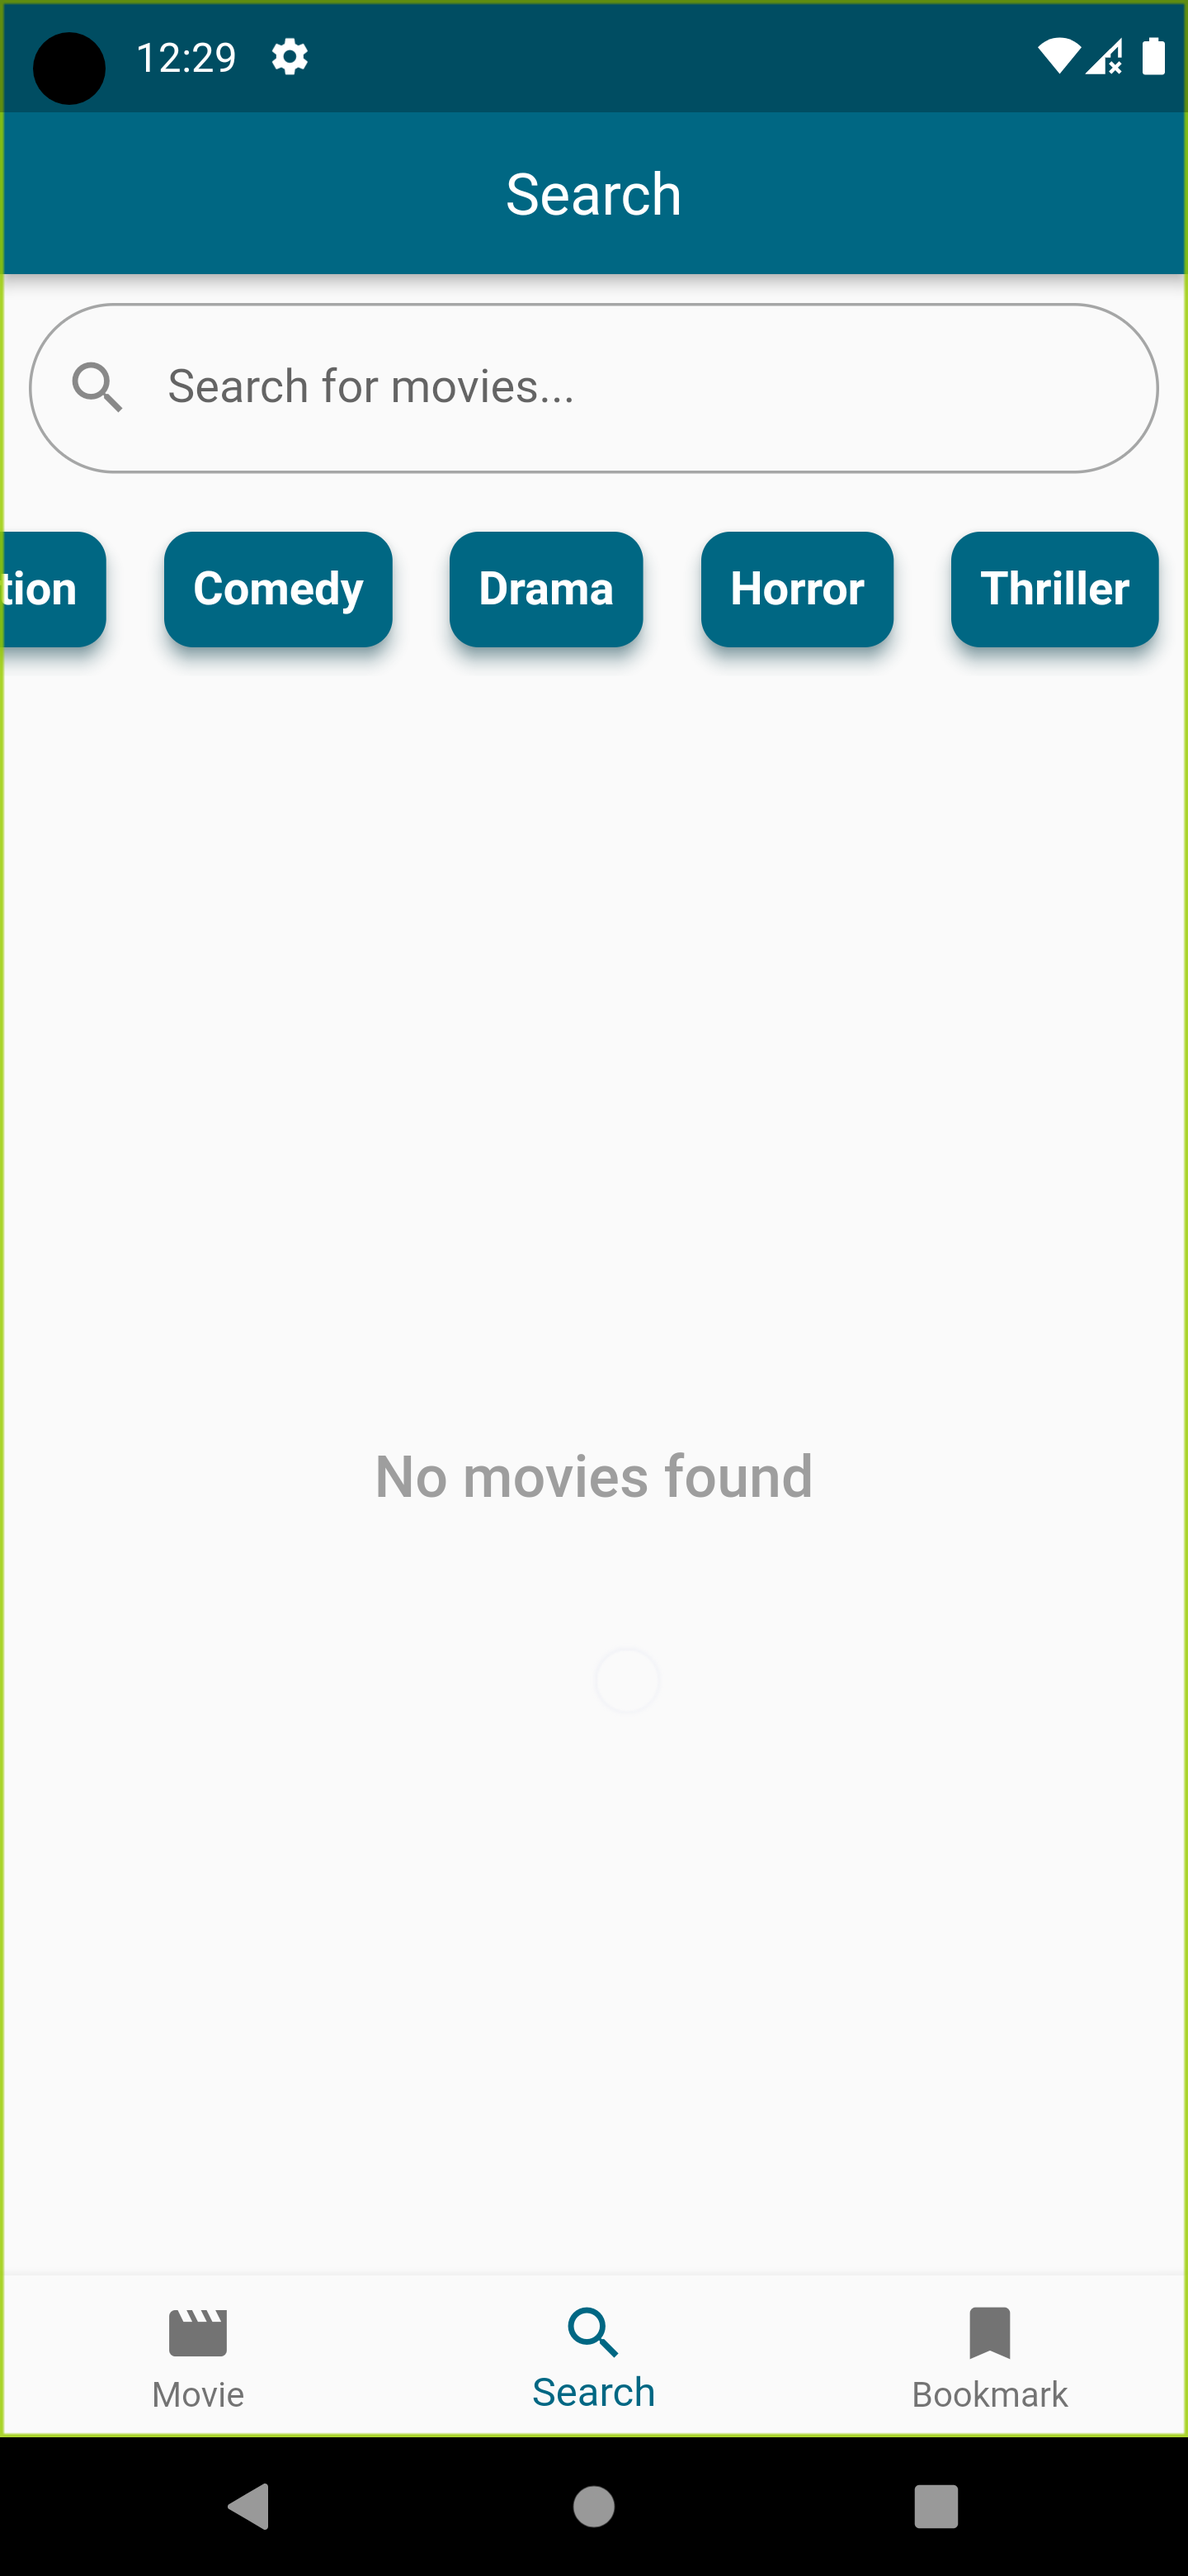
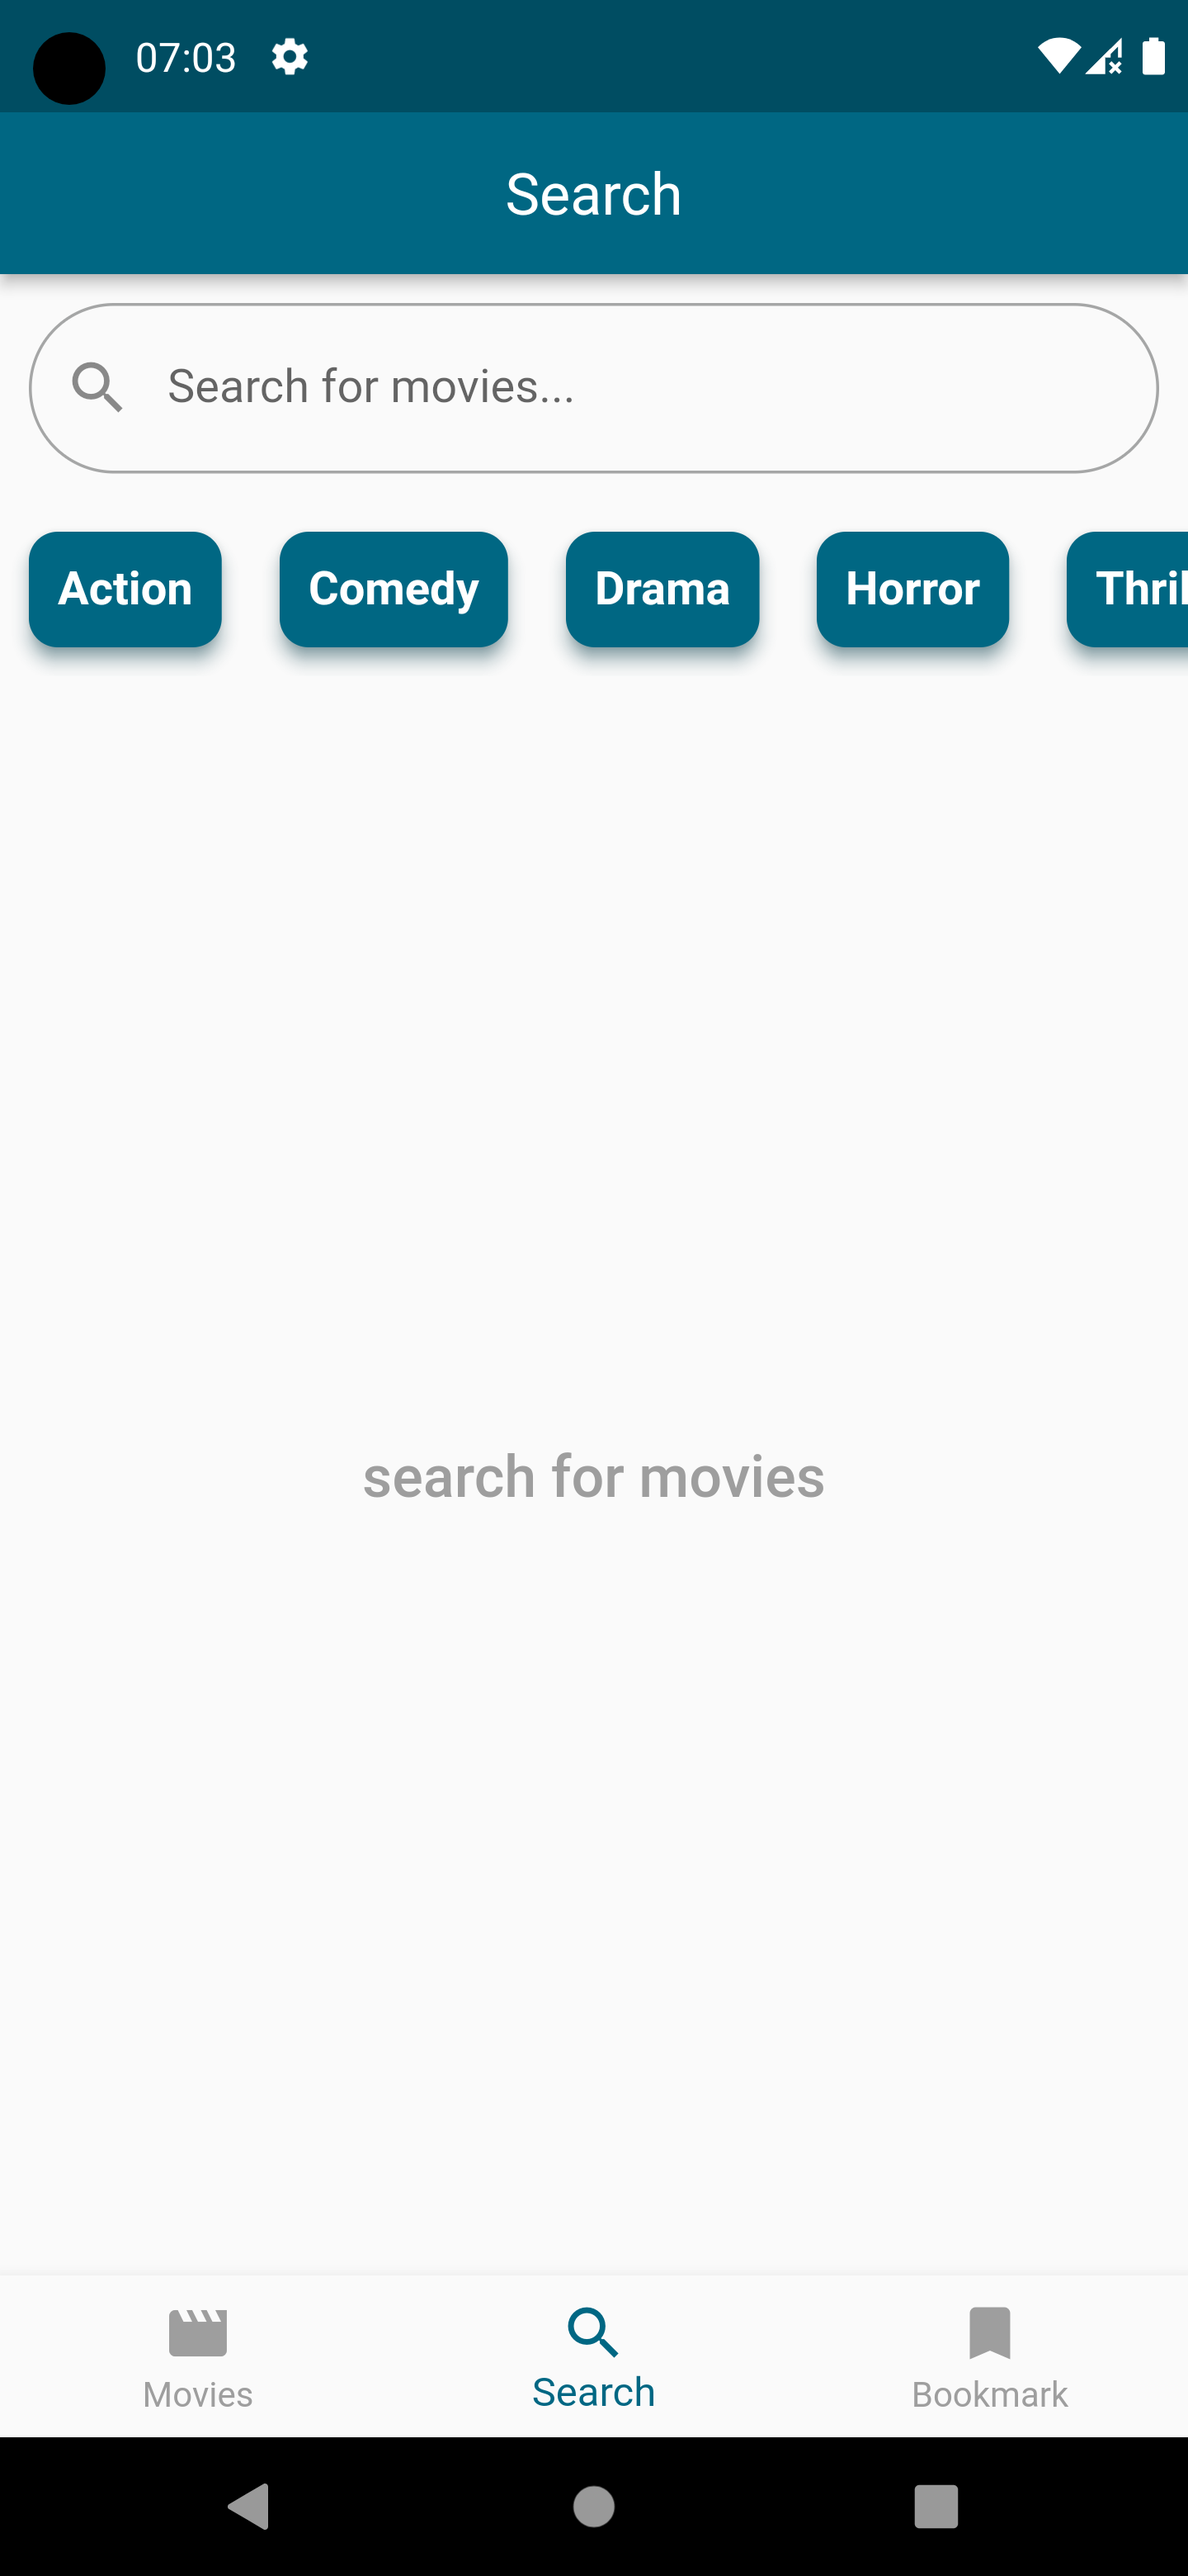
refactor code

diff --git a/lib/views/screens/search_screen.dart b/lib/views/screens/search_screen.dart
@@ -89,23 +89,34 @@ class SearchScreen extends StatelessWidget {
                 ),
               ),
               Expanded(
-                child: controller.isLoading.value
-                    ? const Center(child: CircularProgressIndicator())
-                    : controller.listMovies.isEmpty
-                        ? const Center(
-                            child: CustomText(
-                              text: 'No movies found',
-                              fontWeight: FontWeight.w500,
-                              color: Colors.grey,
-                            ),
-                          )
-                        : ListView.builder(
-                            itemCount: controller.listMovies.length,
-                            itemBuilder: (context, index) {
-                              MovieModel movie = controller.listMovies[index];
-                              return CustomHorizontalMovieCard(movie: movie);
-                            },
-                          ),
+                child: controller.searchText.value == ''
+                    ? const Center(
+                        child: CustomText(
+                          text: 'search for movies',
+                          fontWeight: FontWeight.w500,
+                          color: Colors.grey,
+                        ),
+                      )
+                    : controller.isLoading.value
+                        ? const Center(child: CircularProgressIndicator())
+                        : controller.listMovies.isEmpty
+                            ? const Center(
+                                child: CustomText(
+                                  text: 'No movies found',
+                                  fontWeight: FontWeight.w500,
+                                  color: Colors.grey,
+                                ),
+                              )
+                            : ListView.builder(
+                                itemCount: controller.listMovies.length,
+                                itemBuilder: (context, index) {
+                                  MovieModel movie =
+                                      controller.listMovies[index];
+                                  return CustomHorizontalMovieCard(
+                                    movie: movie,
+                                  );
+                                },
+                              ),
               ),
             ],
           );

diff --git a/lib/views/screens/moive_screen.dart b/lib/views/screens/moive_screen.dart
@@ -15,8 +15,8 @@ class MovieScreen extends StatelessWidget {
   @override
   Widget build(BuildContext context) {
     final MovieController movieController = Get.find();
-    movieController.getNowPlayingMovies();
-    movieController.getUpcomingMovies();
+    movieController.getNowShowingMovies();
+    movieController.getPopularMovies();
     return Scaffold(
       drawer: const DrawerScreen(),
       appBar: AppBar(
@@ -31,13 +31,13 @@ class MovieScreen extends StatelessWidget {
               Get.to(
                 () => AllItemsScreen(
                   name: 'Now Showing',
-                  items: movieController.movieListnow,
+                  items: movieController.nowShowingList,
                 ),
               );
             },
           ),
           Obx(() {
-            if (movieController.movieListnow.isEmpty) {
+            if (movieController.nowShowingList.isEmpty) {
               return const Center(child: CircularProgressIndicator());
             }
             return SizedBox(
@@ -46,7 +46,7 @@ class MovieScreen extends StatelessWidget {
                 itemCount: 5,
                 scrollDirection: Axis.horizontal,
                 itemBuilder: (context, index) {
-                  MovieModel movie = movieController.movieListnow[index];
+                  MovieModel movie = movieController.nowShowingList[index];
                   return CustomVerticalMovieCard(movie: movie);
                 },
               ),
@@ -57,19 +57,19 @@ class MovieScreen extends StatelessWidget {
             onTap: () {
               Get.to(() => AllItemsScreen(
                     name: 'Popular',
-                    items: movieController.movieListup,
+                    items: movieController.popularList,
                   ));
             },
           ),
           Obx(() {
-            if (movieController.movieListup.isEmpty) {
+            if (movieController.popularList.isEmpty) {
               return const Center(child: CircularProgressIndicator());
             }
             return Expanded(
               child: ListView.builder(
                 itemCount: 5,
                 itemBuilder: (context, index) {
-                  MovieModel movie = movieController.movieListup[index];
+                  MovieModel movie = movieController.popularList[index];
                   return CustomHorizontalMovieCard(movie: movie);
                 },
               ),

diff --git a/lib/controllers/movie_controller.dart b/lib/controllers/movie_controller.dart
@@ -1,11 +1,11 @@
 import 'package:get/get.dart';
-import 'package:movie_app/Services/movie_services.dart';
 import 'package:movie_app/models/movie_model.dart';
+import '../core/Services/movie_services.dart';
 
 class MovieController extends GetxController {
   MovieServices movieServices = MovieServices();
-  RxList<MovieModel> movieListnow = <MovieModel>[].obs;
-  RxList<MovieModel> movieListup = <MovieModel>[].obs;
+  RxList<MovieModel> nowShowingList = <MovieModel>[].obs;
+  RxList<MovieModel> popularList = <MovieModel>[].obs;
   RxList<MovieModel> drawerList = <MovieModel>[].obs;
 
   RxString genreName = ''.obs;
@@ -14,19 +14,19 @@ class MovieController extends GetxController {
     currentIndex.value = index;
   }
 
-  Future<void> getNowPlayingMovies() async {
+  Future<void> getNowShowingMovies() async {
     try {
-      final movies = await movieServices.getNowPlayingMovies();
-      movieListnow.value = movies;
+      final movies = await movieServices.getMovies('now_playing');
+      nowShowingList.value = movies;
     } on Exception catch (e) {
       throw Exception('Error fetching movies: $e');
     }
   }
 
-  Future<void> getUpcomingMovies() async {
+  Future<void> getPopularMovies() async {
     try {
-      final movies = await movieServices.getUpcomingMovies();
-      movieListup.value = movies;
+      final movies = await movieServices.getMovies('upcoming');
+      popularList.value = movies;
     } on Exception catch (e) {
       throw Exception('Error fetching movies: $e');
     }
@@ -39,31 +39,5 @@ class MovieController extends GetxController {
     } on Exception catch (e) {
       throw Exception('Error fetching movies: $e');
     }
-  }
-
-  String getGenreName(int genreId) {
-    final Map<int, String> genreNames = {
-      28: "Action",
-      12: "Adventure",
-      16: "Animation",
-      35: "Comedy",
-      80: "Crime",
-      99: "Documentary",
-      18: "Drama",
-      10751: "Family",
-      14: "Fantasy",
-      36: "History",
-      27: "Horror",
-      10402: "Music",
-      9648: "Mystery",
-      10749: "Romance",
-      878: "Science Fiction",
-      10770: "TV Movie",
-      53: "Thriller",
-      10752: "War",
-      37: "Western",
-    };
-
-    return genreNames[genreId] ?? 'Unknown Genre';
   }
 }

diff --git a/lib/core/Services/movie_services.dart b/lib/core/Services/movie_services.dart
@@ -9,30 +9,9 @@ class MovieServices {
   final String _baseUrl = 'https://api.themoviedb.org/3/movie/';
   final String _apikey = 'eff458afec4dd1cdfce61765ec793d07';
 
-  Future<List<MovieModel>> getNowPlayingMovies() async {
+  Future<List<MovieModel>> getMovies(c) async {
     try {
-      final response =
-          await _dio.get('${_baseUrl}now_playing?api_key=$_apikey');
-      if (response.statusCode == 200) {
-        List<dynamic> data = response.data['results'];
-        return data.map((movie) => MovieModel.fromMap(movie)).toList();
-      } else {
-        throw Exception('Failed to load movies');
-      }
-    } on DioError catch (e) {
-      if (e.response != null) {
-        print('Error Response Data: ${e.response!.data}');
-      } else {
-        print('Error Request Options: ${e.requestOptions}');
-        print('Error Message: ${e.message}');
-      }
-      throw Exception('Failed to load movies');
-    }
-  }
-
-  Future<List<MovieModel>> getUpcomingMovies() async {
-    try {
-      final response = await _dio.get('${_baseUrl}upcoming?api_key=$_apikey');
+      final response = await _dio.get('$_baseUrl$c?api_key=$_apikey');
       if (response.statusCode == 200) {
         List<dynamic> data = response.data['results'];
 
@@ -98,27 +77,4 @@ class MovieServices {
       throw Exception('Failed to load movies');
     }
   }
-
-
-  Future<List<MovieModel>> getMovies(c) async {
-    try {
-      final response = await _dio.get('$_baseUrl$c?api_key=$_apikey');
-      if (response.statusCode == 200) {
-        List<dynamic> data = response.data['results'];
-
-        return data.map((movie) => MovieModel.fromMap(movie)).toList();
-      } else {
-        throw Exception('Failed to load movies');
-      }
-    } on DioError catch (e) {
-      if (e.response != null) {
-        print('Error Response Data: ${e.response!.data}');
-      } else {
-        print('Error Request Options: ${e.requestOptions}');
-        print('Error Message: ${e.message}');
-      }
-      throw Exception('Failed to load movies');
-    }
-  }
-
 }

diff --git a/lib/views/widgets/custom_horizontal_movie_card.dart b/lib/views/widgets/custom_horizontal_movie_card.dart
@@ -1,9 +1,8 @@
 import 'package:flutter/material.dart';
 import 'package:get/get.dart';
+import 'package:movie_app/core/functions/trans_genre_id.dart';
 import 'package:movie_app/models/movie_model.dart';
 import 'package:movie_app/views/screens/details_screen.dart';
-
-import '../../controllers/movie_controller.dart';
 import 'custom_text.dart';
 
 class CustomHorizontalMovieCard extends StatelessWidget {
@@ -14,7 +13,7 @@ class CustomHorizontalMovieCard extends StatelessWidget {
 
   @override
   Widget build(BuildContext context) {
-    final MovieController movieController = Get.find();
+    final MainFunctions mainFunctions = MainFunctions();
     return GestureDetector(
       onTap: () {
         Get.to(() => DetailsScreen(movie: movie));
@@ -76,7 +75,7 @@ class CustomHorizontalMovieCard extends StatelessWidget {
                           ),
                           child: Center(
                             child: CustomText(
-                              text: movieController.getGenreName(g),
+                              text: mainFunctions.getGenreName(g),
                               fintSize: 12,
                               fontWeight: FontWeight.bold,
                               color: Colors.blue,

diff --git a/lib/views/screens/details_screen.dart b/lib/views/screens/details_screen.dart
@@ -1,7 +1,7 @@
 import 'package:flutter/material.dart';
 import 'package:get/get.dart';
 import 'package:movie_app/controllers/bookmark_controller.dart';
-import 'package:movie_app/controllers/movie_controller.dart';
+import 'package:movie_app/core/functions/trans_genre_id.dart';
 import 'package:movie_app/models/movie_model.dart';
 import '../widgets/custom_text.dart';
 
@@ -11,8 +11,8 @@ class DetailsScreen extends StatelessWidget {
 
   @override
   Widget build(BuildContext context) {
-    final MovieController movieController = Get.find();
     final BookmarkScreenController bookmarkScreenController = Get.find();
+    final MainFunctions mainFunctions = MainFunctions();
 
     return Scaffold(
       body: SingleChildScrollView(
@@ -141,7 +141,7 @@ class DetailsScreen extends StatelessWidget {
                           ),
                           child: Center(
                             child: CustomText(
-                              text: movieController.getGenreName(g),
+                              text: mainFunctions.getGenreName(g),
                               fintSize: 12,
                               fontWeight: FontWeight.bold,
                               color: Colors.blue,

diff --git a/lib/controllers/bookmark_controller.dart b/lib/controllers/bookmark_controller.dart
@@ -1,5 +1,5 @@
 import 'package:get/get.dart';
-import 'package:movie_app/Services/database_service.dart';
+import 'package:movie_app/core/Services/database_service.dart';
 import 'package:movie_app/models/movie_model.dart';
 
 class BookmarkScreenController extends GetxController {
@@ -15,17 +15,17 @@ class BookmarkScreenController extends GetxController {
 
   Future<void> loadBookmarks() async {
     final movies = await databaseService.getMovies();
-    bookedMovies.assignAll(movies);
+    bookedMovies.value = movies;
   }
 
   void bookmark(MovieModel movie) async {
     await databaseService.insert(movie);
-    loadBookmarks(); 
+    loadBookmarks();
   }
 
   void delete(int movieId) async {
     await databaseService.delete(movieId);
-    loadBookmarks(); 
+    loadBookmarks();
   }
 
   bool isBookmarked(int movieId) {
@@ -34,6 +34,6 @@ class BookmarkScreenController extends GetxController {
 
   Future<void> deleteAll() async {
     await databaseService.deleteAll();
-    loadBookmarks(); 
+    loadBookmarks();
   }
 }

diff --git a/lib/core/functions/trans_genre_id.dart b/lib/core/functions/trans_genre_id.dart
@@ -1,0 +1,27 @@
+class MainFunctions {
+  String getGenreName(int genreId) {
+    final Map<int, String> genreNames = {
+      28: "Action",
+      12: "Adventure",
+      16: "Animation",
+      35: "Comedy",
+      80: "Crime",
+      99: "Documentary",
+      18: "Drama",
+      10751: "Family",
+      14: "Fantasy",
+      36: "History",
+      27: "Horror",
+      10402: "Music",
+      9648: "Mystery",
+      10749: "Romance",
+      878: "Science Fiction",
+      10770: "TV Movie",
+      53: "Thriller",
+      10752: "War",
+      37: "Western",
+    };
+
+    return genreNames[genreId] ?? 'Unknown Genre';
+  }
+}

diff --git a/lib/controllers/search_controller.dart b/lib/controllers/search_controller.dart
@@ -1,7 +1,8 @@
 import 'package:get/get.dart';
-import 'package:movie_app/Services/movie_services.dart';
 import 'package:movie_app/models/movie_model.dart';
 import 'package:movie_app/models/movie_search_model.dart';
+
+import '../core/Services/movie_services.dart';
 
 class SearchScreenController extends GetxController {
   RxString searchText = ''.obs;

diff --git a/lib/core/Services/bindings.dart b/lib/core/Services/bindings.dart
@@ -1,8 +1,9 @@
 import 'package:get/get.dart';
 import 'package:movie_app/controllers/bookmark_controller.dart';
+import 'package:movie_app/controllers/movie_controller.dart';
 import 'package:movie_app/controllers/search_controller.dart';
 
-import '../controllers/movie_controller.dart';
+
 
 class IinitialBindings extends Bindings {
   @override

diff --git a/lib/main.dart b/lib/main.dart
@@ -1,7 +1,6 @@
 import 'package:flutter/material.dart';
 import 'package:get/get.dart';
-import 'package:movie_app/Services/bindings.dart';
-
+import 'package:movie_app/core/Services/bindings.dart';
 import 'views/screens/main_screen.dart';
 
 void main() {
